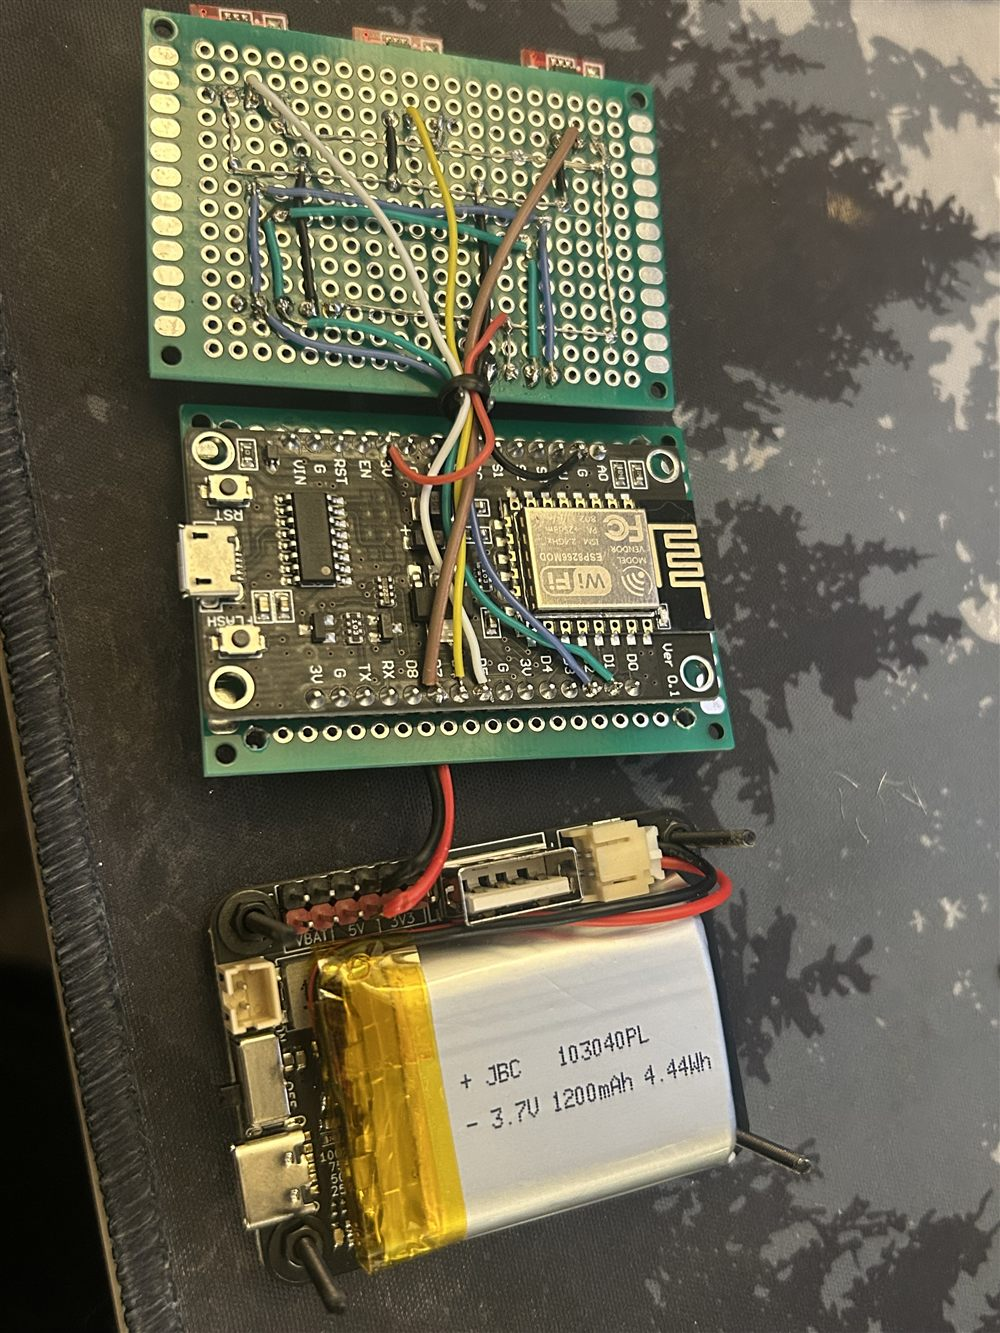
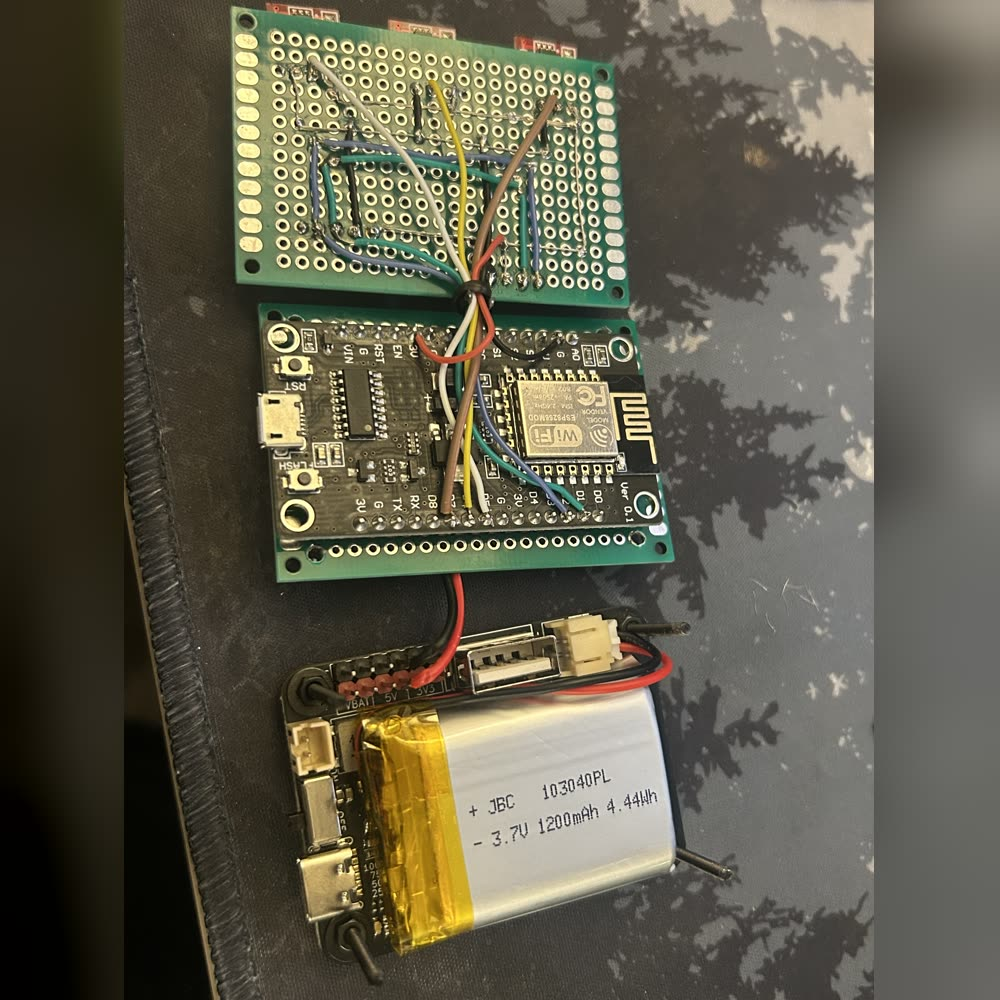
Add carousel arrows, new timer photos, and refresh personal projects
- Prev/next buttons on photo carousels; manual navigation pauses autoplay
- Add Break Over photo; re-crop session and internals photos
- Rewrite Flow State Timer copy with break-tracking mode
- Add tags to Flow State Timer and Robo-Barista

diff --git a/js/work.js b/js/work.js
@@ -81,6 +81,7 @@ const personal = [
       "The entire system is designed to connect with **Alexa**, triggering a sequence of actions when I **dismiss my morning alarm**: refill the reservoir, replace the coffee pod, and start brewing.",
       "It's a slightly overengineered solution to a very small problem, but that's half the fun of building things.",
     ],
+    tags: ["ESP32", "Robotics", "3D Printing", "IoT"],
     link: "",
     images: [
       { src: "images/thumbnails/square/vr-robot-arm.jpg", alt: "3D-printed, servo-driven 6-axis robot arm held up on a desk in front of a monitor" },
@@ -93,18 +94,21 @@ const personal = [
     date: "2026",
     context: "Personal project",
     description: [
-      "Getting started is usually the hardest part of any task. But once I'm finally focused and making progress, the last thing I want is a timer going off and telling me to take a break. Unfortunately, that's exactly what most Pomodoro timers do.",
-      "So I decided to build my own.",
-      "The idea is simple: use the timer to **overcome the initial resistance to starting a task**, not to interrupt the momentum once it's there. I built a small hardware timer that starts with a traditional **25-minute countdown**. Once the time is up, instead of sounding an alarm, it quietly switches to **Flow State mode**, counting upward and tracking how much longer I continue working.",
-      "The prototype uses an **ESP8266 microcontroller, an OLED display, capacitive touch controls, and a vibration motor** for subtle **haptic feedback**. It also **tracks time across different projects**, giving me a better picture of where my focused hours go.",
-      "What started as a small experiment to fix something that annoyed me has become my **daily driver**. It's a simple change to the Pomodoro technique, but one that fits the way I actually like to work.",
+      "Getting started is usually the hardest part of any task. But once I'm finally focused and making progress, I want to finish the task at hand, not stop halfway through because a timer says it's time for a break. Unfortunately, that's exactly what most Pomodoro timers do.",
+      "So I decided to build my own, with two simple rules: **don't interrupt me when I'm focused**, and **don't let my five-minute breaks turn into thirty**.",
+      "The timer starts with a traditional **25-minute countdown**, but instead of sounding an alarm, it quietly transitions into **Flow State mode**, counting upward and tracking the extra time I spend working. No forced breaks, just uninterrupted momentum until I'm ready to stop.",
+      "Breaks, however, are a different story. I've lost count of how many times I've said, \"I'll be back in five minutes,\" only to return half an hour later. So I added a **break-tracking mode** that counts the minutes beyond my planned break and triggers a **repeating haptic reminder** until I stop it. It's deliberately annoying, and that's kind of the point.",
+      "I built the device using an **ESP8266, OLED display, capacitive touch controls, and a vibration motor**. It also **tracks focused work across different projects**.",
+      "What started as a small experiment has become my **daily driver**. It leaves me alone when I'm productive and holds me accountable when I'm procrastinating.",
     ],
+    tags: ["ESP8266", "OLED", "Capacitive Touch", "Haptic Feedback"],
     link: "",
     images: [
       { src: "images/projects/flow-state-timer/flow-state-timer-1.jpg", alt: "Flow State Timer on a desk, its OLED screen reading Flow State +13:52, Keep Going, above minus, zero and plus touch buttons" },
       { src: "images/projects/flow-state-timer/flow-state-timer-session-complete.jpg", alt: "Flow State Timer screen reading Session Complete, PhD Research, 48:55, Flow Recorded" },
       { src: "images/projects/flow-state-timer/flow-state-timer-2.jpg", alt: "Flow State Timer internals laid out: a hand-wired perfboard, an ESP8266 board and a 1200 mAh battery module" },
       { src: "images/projects/flow-state-timer/flow-state-timer-3.jpg", alt: "Side view of the assembled Flow State Timer showing its stacked circuit boards held between fingers" },
+      { src: "images/projects/flow-state-timer/flow-state-timer-break-over.jpg", alt: "Flow State Timer screen reading Break Over, +01:27, Return to Desk" },
     ],
     newTab: false,
   },
@@ -226,7 +230,11 @@ function renderTimeline(listId, items) {
               .map((_, i) => `<button type="button" class="carousel-dot${i === 0 ? " is-active" : ""}" aria-label="Show image ${i + 1} of ${images.length}"></button>`)
               .join("")}</div>`
           : "";
-        media = `<div class="work-media carousel" aria-roledescription="carousel" aria-label="${escapeHTML(title)} photos">${slides}${dots}</div>`;
+        const arrows = images.length > 1
+          ? `<button type="button" class="carousel-arrow carousel-prev" aria-label="Previous image"><span aria-hidden="true">‹</span></button>
+             <button type="button" class="carousel-arrow carousel-next" aria-label="Next image"><span aria-hidden="true">›</span></button>`
+          : "";
+        media = `<div class="work-media carousel" aria-roledescription="carousel" aria-label="${escapeHTML(title)} photos">${slides}${arrows}${dots}</div>`;
       } else {
         const image = videoURL
           ? `<video src="${videoURL}" poster="${imageURL}" muted loop playsinline preload="metadata"${reduceMotion ? "" : " autoplay"}></video>`
@@ -268,6 +276,7 @@ function initCarousel(root) {
   if (slides.length < 2) return;
   let index = 0;
   let timer = null;
+  let userPaused = false; // set once the visitor navigates manually
 
   const show = (next) => {
     slides[index].classList.remove("is-active");
@@ -277,12 +286,16 @@ function initCarousel(root) {
     dots[index].classList.add("is-active");
   };
   const start = () => {
-    if (reduceMotion || timer) return;
+    if (reduceMotion || userPaused || timer) return;
     timer = setInterval(() => show(index + 1), 3500);
   };
   const stop = () => { clearInterval(timer); timer = null; };
+  // Manual navigation stops auto-advance for good
+  const goTo = (i) => { userPaused = true; stop(); show(i); };
 
-  dots.forEach((dot, i) => dot.addEventListener("click", () => { show(i); stop(); start(); }));
+  dots.forEach((dot, i) => dot.addEventListener("click", () => goTo(i)));
+  root.querySelector(".carousel-prev").addEventListener("click", () => goTo(index - 1));
+  root.querySelector(".carousel-next").addEventListener("click", () => goTo(index + 1));
   root.addEventListener("mouseenter", stop);
   root.addEventListener("mouseleave", start);
   root.addEventListener("focusin", stop);

diff --git a/css/research.css b/css/research.css
@@ -233,6 +233,22 @@ a:focus-visible, .btn:focus-visible {
 }
 .carousel-dot.is-active { background: #fff; }
 .carousel-dot:focus-visible { outline: 2px solid var(--accent); outline-offset: 2px; }
+.carousel-arrow {
+  position: absolute; top: 50%; transform: translateY(-50%); z-index: 1;
+  width: 36px; height: 36px; padding: 0; border-radius: 50%; cursor: pointer;
+  display: flex; align-items: center; justify-content: center;
+  border: none; background: rgba(255, 255, 255, 0.85); color: var(--ink);
+  font-size: 24px; line-height: 1; box-shadow: 0 1px 4px rgba(0, 0, 0, 0.25);
+  opacity: 0; transition: opacity 0.2s, background 0.15s;
+}
+.carousel-arrow span { margin-top: -3px; }
+.carousel-prev { left: 10px; }
+.carousel-next { right: 10px; }
+.carousel:hover .carousel-arrow, .carousel-arrow:focus-visible { opacity: 1; }
+.carousel-arrow:hover { background: #fff; color: var(--accent); }
+.carousel-arrow:focus-visible { outline: 2px solid var(--accent); outline-offset: 2px; }
+/* Touch screens have no hover: keep the arrows visible */
+@media (hover: none) { .carousel-arrow { opacity: 1; } }
 @media (prefers-reduced-motion: reduce) {
   .work-media .carousel-slide { transition: none; }
 }
